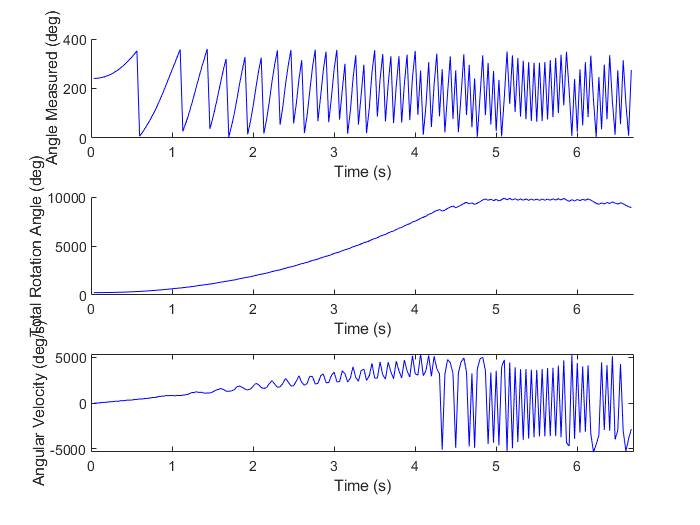
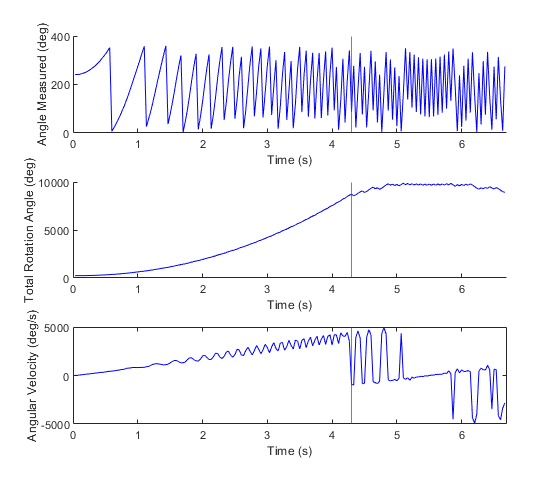
Finished Lab 7

diff --git a/MAE170/Lab 7/Lab 7/ImageProcessing.m b/MAE170/Lab 7/Lab 7/ImageProcessing.m
@@ -166,22 +166,21 @@ dt = t(2)-t(1);
 figure(1);
 subplot(3, 1, 1); hold on;
 plot(t, angled, 'b-'); hold on;
+xline(4.3, 'r-'); hold on;
 xlabel('Time (s)'); ylabel('Angle Measured (deg)');
 xlim([0 6.7]);
 
 subplot(3, 1, 2); hold on;
 plot(t, adjustedangle, 'b-'); hold on;
+xline(4.3, 'r-'); hold on;
 xlabel('Time (s)'); ylabel('Total Rotation Angle (deg)');
 xlim([0 6.7]);
 
 subplot(3, 1, 3);
 omega = gradient(adjustedangle)./gradient(t);
-for i = 2:length(adjustedangle)
 
-    omega(i) = (adjustedangle(i) - adjustedangle(i-1))/dt;
-
-end
 plot(t, omega, 'b-'); hold on;
+xline(4.3, 'r-'); hold on;
 xlabel('Time (s)'); ylabel('Angular Velocity (deg/s)');
 xlim([0 6.7]);
 
